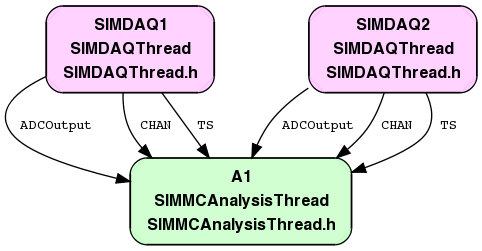
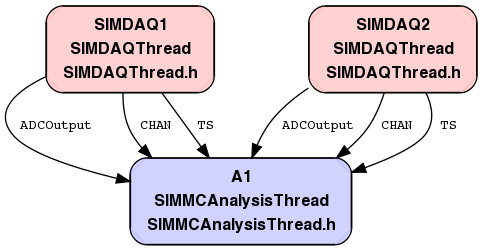
Changed color scheme from purple/green to red/blue.

diff --git a/util/draw_app_graph.py b/util/draw_app_graph.py
@@ -37,10 +37,11 @@ class grif_node_style(object):
     def __init__(self, isdaq=False):
         self.shape = "box"
         self.style = "rounded, filled"
+        alpha = "88"
         if isdaq:
-            self.fillcolor = "#ffaaff" + "88"
+            self.fillcolor = "#ffaaaa" + alpha
         else:
-            self.fillcolor = "#aaffaa" + "88"
+            self.fillcolor = "#aaaaff" + alpha
         self.fontname = "Helvetica"
         self.fontsize = "12.0"
     
